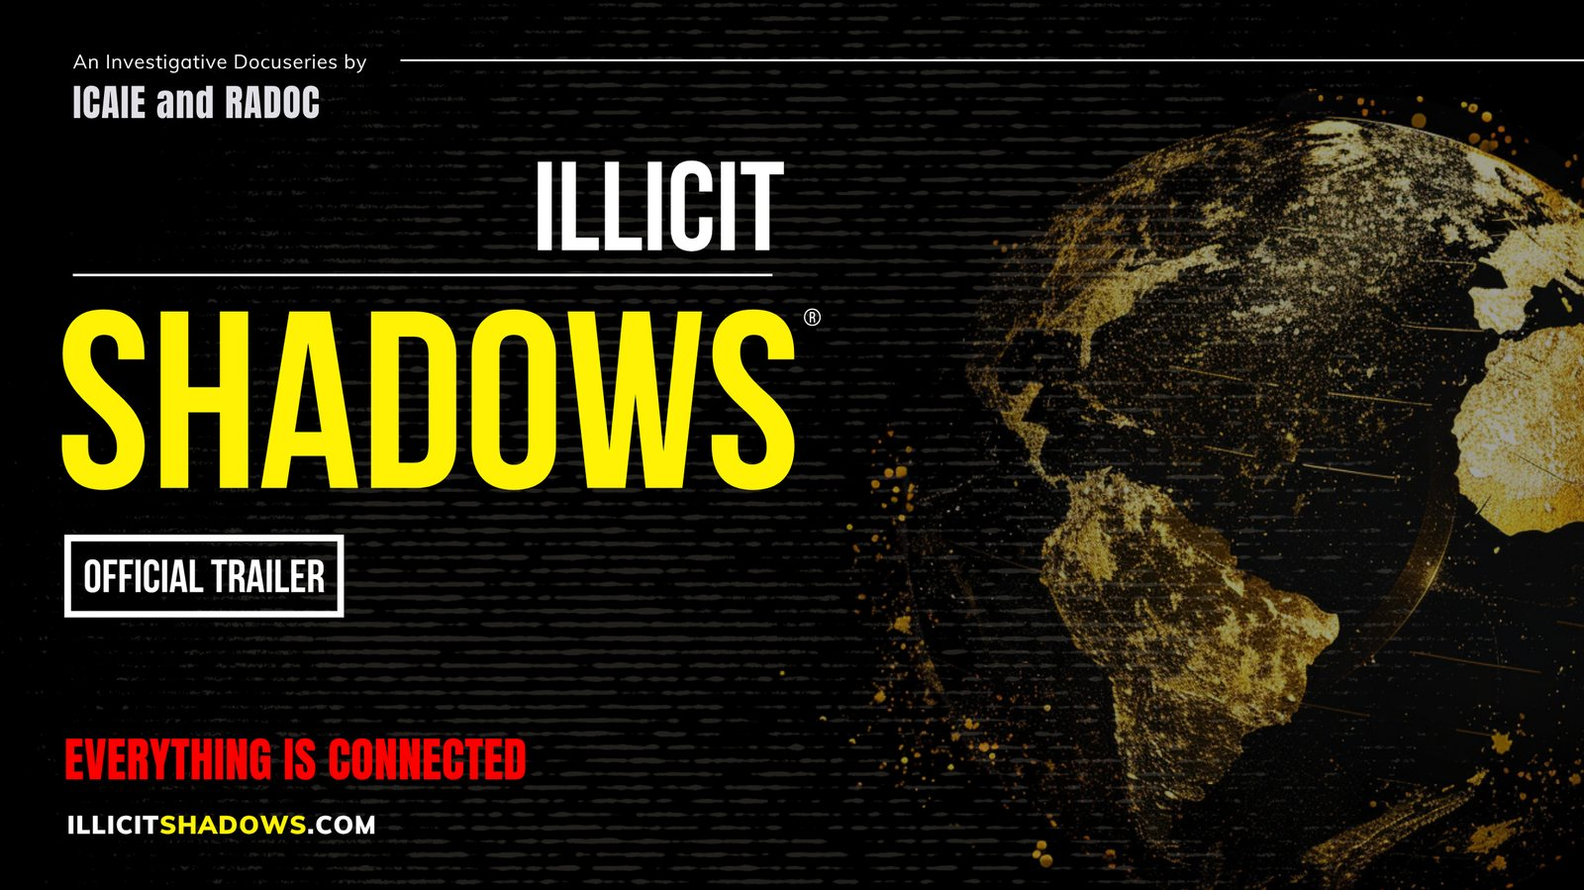
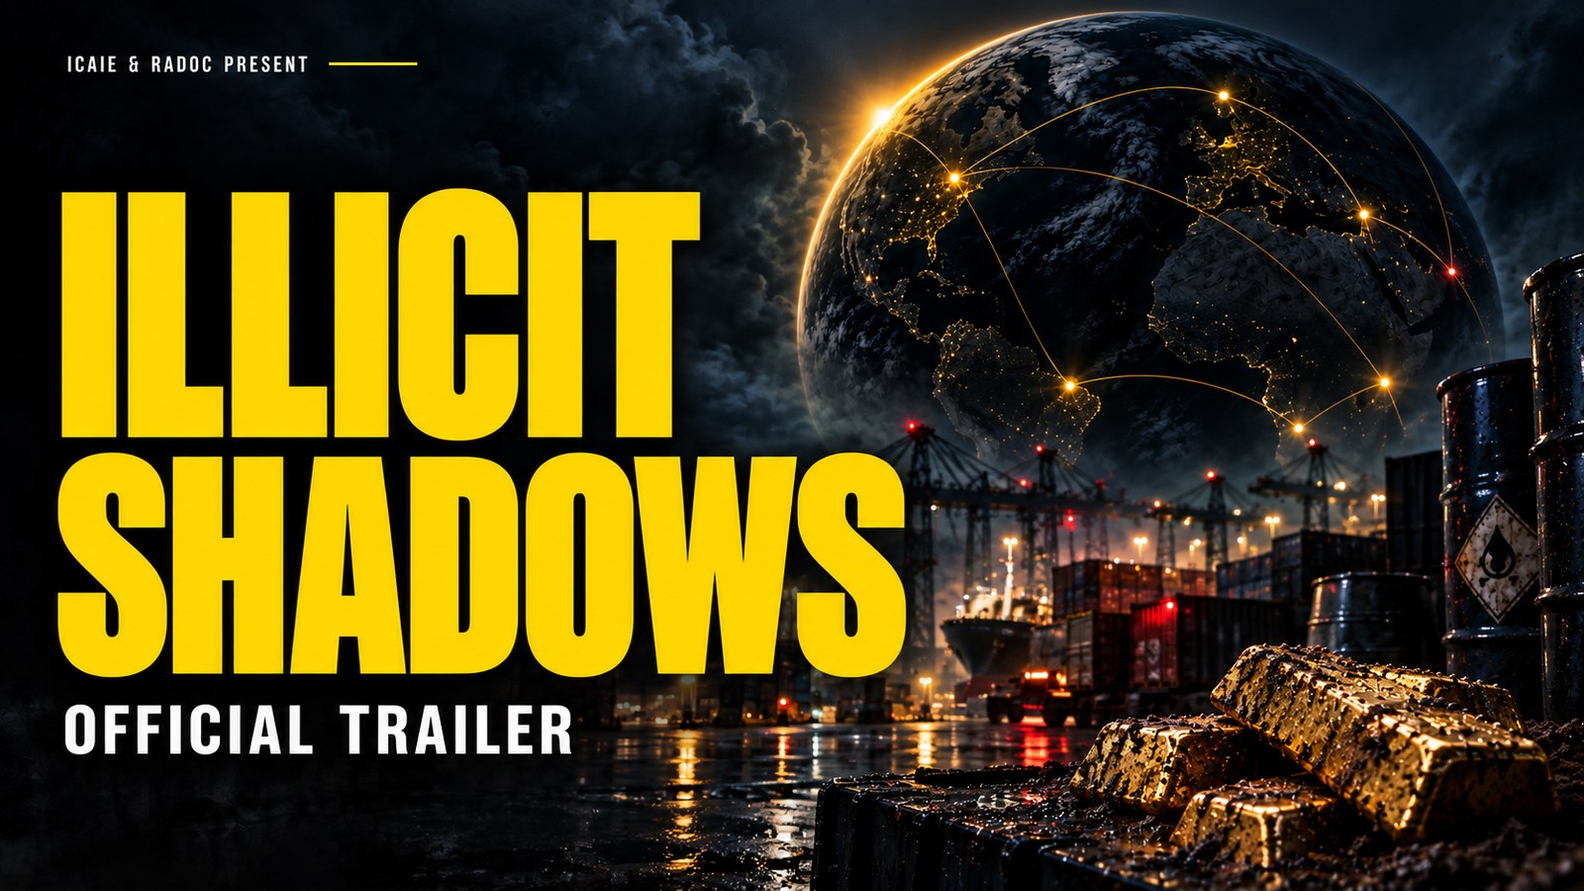
updates homepage, adds videos to home

diff --git a/styles/site.css b/styles/site.css
@@ -165,7 +165,9 @@ footer{border-top:2px solid var(--alert);padding:40px 0 48px;background:var(--pa
    The covers carry their own titles, so the caption under each is for scanning, not labeling. */
 .minigrid{display:grid;grid-template-columns:repeat(3,1fr);gap:12px}
 .minicard{display:block}
-.minicard-img{display:block;aspect-ratio:16/9;overflow:hidden;border:1px solid var(--line)}
+/* position:relative or an absolutely positioned play button escapes to the nearest
+   positioned ancestor and every card's button stacks in one spot. */
+.minicard-img{position:relative;display:block;aspect-ratio:16/9;overflow:hidden;border:1px solid var(--line)}
 .minicard-img img{width:100%;height:100%;object-fit:cover;display:block}
 .minicard:hover .minicard-img{border-color:var(--line-2)}
 .minicard-t{display:block;font-weight:700;font-size:14px;color:var(--text);margin-top:8px}
@@ -215,6 +217,20 @@ footer{border-top:2px solid var(--alert);padding:40px 0 48px;background:var(--pa
 .vembed--live iframe{position:absolute;inset:0;width:100%;height:100%;border:0}
 .ep-player.vembed{border:1px solid var(--line-2)}
 
+/* Home film section: the in-production work leads, the released film sits under it as covers. */
+.lead-film{display:grid;grid-template-columns:1.25fr 1fr;gap:clamp(22px,3vw,40px);align-items:center}
+.lead-film .film-feature{max-width:none;margin:0}
+.lead-title{font-family:var(--disp);text-transform:uppercase;line-height:.95;color:var(--text);font-size:clamp(34px,4.4vw,56px);margin:10px 0 14px}
+.lead-title span{color:var(--signal)}
+.lead-title.sm{font-size:clamp(26px,3vw,36px);margin:0 0 8px}
+.lead-line{color:var(--text-2);font-size:16px;line-height:1.75;margin:0 0 14px;max-width:62ch}
+.lead-note{color:var(--muted);font-size:14.5px;line-height:1.7;margin:0 0 20px;max-width:62ch}
+.released-head{margin-bottom:18px}
+.minigrid.home{margin-bottom:6px}
+.trailer-home{position:relative;display:block;aspect-ratio:16/9;max-width:1000px;margin:0 auto;border:1px solid var(--line-2);overflow:hidden}
+.trailer-home img{width:100%;height:100%;object-fit:cover;display:block}
+.pb.sm{width:38px;height:38px;font-size:13px}
+
 @media(max-width:820px){
   .links{display:none;position:absolute;top:72px;left:0;right:0;flex-direction:column;background:#0a0a0a;border-bottom:2px solid var(--alert);padding:14px 24px;gap:14px}
   .links.open{display:flex}.navtoggle{display:block}
@@ -226,7 +242,10 @@ footer{border-top:2px solid var(--alert);padding:40px 0 48px;background:var(--pa
   .work-body,.trailer-band>div{padding:0 18px 22px}
   .srow{gap:12px}.srow .chips{justify-content:flex-start;max-width:none}
   .sggrid,.minigrid{grid-template-columns:1fr 1fr;gap:10px}
+  .lead-film{grid-template-columns:1fr}
   .sgcard-t{font-size:14px}
+  .cstep{grid-template-columns:26px 1fr;row-gap:2px}
+  .cstep .clag{grid-column:2}
   .foot{grid-template-columns:1fr}
   .head .lbl{white-space:normal}
 }
@@ -248,6 +267,14 @@ footer{border-top:2px solid var(--alert);padding:40px 0 48px;background:var(--pa
 .band-light .eyebrow,.band-white .eyebrow{color:#9c6b06}
 .band-light p,.band-white p{color:#3f3a32}
 .band-light .btn-o,.band-white .btn-o{color:#161310}
+.band-light .lead-title,.band-light .minicard-t{color:#1a1611}
+.band-light .lead-title span{color:#9c6b06}
+.band-light .lead-line{color:#3f3a32}
+.band-light .lead-note{color:#6b655b}
+.band-light .minicard-r,.band-light .segcap{color:#8f887a}
+.band-light .minicard:hover .minicard-t{color:#9c6b06}
+.band-light .seemore a{color:#8a5c05;border-bottom-color:#c2340f}
+.band-light .film-div{border-color:#d8cfbd}
 .band-white .disp .y{color:var(--alert)}
 
 /* pillars (deck design) */
@@ -271,6 +298,8 @@ footer{border-top:2px solid var(--alert);padding:40px 0 48px;background:var(--pa
 .film-feature::after{content:"";position:absolute;inset:0;background:linear-gradient(180deg,rgba(0,0,0,.12),rgba(0,0,0,.4))}
 .film-feature .pb{width:64px;height:64px;font-size:22px}
 .badge{position:absolute;top:12px;left:12px;z-index:4;font-family:var(--mono);font-size:9.5px;letter-spacing:.1em;color:var(--signal);background:rgba(0,0,0,.72);border:1px solid var(--line-2);padding:5px 9px}
+/* Stamps over key art belong bottom left: the covers carry the presenting credit top left
+   and the roundel bottom right. Always pair .badge with .btm on film artwork. */
 .badge.red{color:#fff;background:rgba(225,29,29,.9);border-color:transparent}.badge.btm{top:auto;bottom:12px}
 .feat-syn{max-width:1000px;margin:18px auto 0;color:var(--text-2);font-size:16.5px;line-height:1.7}
 .film-div{height:6px;max-width:1000px;margin:clamp(30px,5vw,50px) auto;background:repeating-linear-gradient(90deg,var(--alert) 0 16px,transparent 16px 23px)}
@@ -290,13 +319,22 @@ a.mbox:hover{transform:translateY(-3px)}.mbox.alert{border-top-color:var(--alert
 .teaser{display:grid;grid-template-columns:1fr 1fr;gap:clamp(28px,5vw,56px);align-items:center}
 .teaser.rev .tcopy{order:2}.tcopy .eyebrow{margin-bottom:10px}.tcopy p{color:var(--text-2);font-size:16px;margin:14px 0 18px;max-width:46ch}
 .cascade{background:var(--panel);border:1px solid var(--line-2);padding:18px}
-.cascade .ch{font-family:var(--mono);font-size:10px;color:var(--dim);letter-spacing:.1em;margin-bottom:12px;display:flex;justify-content:space-between;gap:10px;flex-wrap:wrap}
-.cascade .cq{font-weight:700;font-size:14px;color:var(--text);margin-bottom:10px}
-.cascade .cs{display:flex;gap:12px;padding:8px 0;border-top:1px solid var(--line);font-size:14px;color:var(--text-2)}
-.cascade .cs b{font-family:var(--mono);font-size:10px;color:var(--signal);min-width:40px;font-weight:500}.cascade .cs.red b{color:var(--alert)}
+.cascade .ch{font-family:var(--mono);font-size:10px;color:var(--dim);letter-spacing:.1em;margin-bottom:14px;display:flex;justify-content:space-between;gap:10px;flex-wrap:wrap}
+.ctrigger{font-weight:700;font-size:15px;color:var(--text);margin:0 0 4px;display:flex;gap:10px;align-items:baseline;flex-wrap:wrap}
+.ck{font-family:var(--mono);font-size:9.5px;letter-spacing:.14em;color:var(--ink);background:var(--signal);padding:3px 7px;font-weight:500}
+/* The vertical rule is the chain: every step hangs off the trigger above it. */
+.cchain{list-style:none;margin:0;padding:0 0 0 10px;border-left:2px solid var(--alert)}
+.cstep{display:grid;grid-template-columns:30px 62px 1fr;gap:12px;align-items:baseline;padding:12px 0 12px 12px;border-top:1px solid var(--line);position:relative}
+.cstep:first-child{border-top:0}
+.cstep::before{content:"";position:absolute;left:-16px;top:20px;width:12px;height:2px;background:var(--alert)}
+.cnum{font-family:var(--disp);font-size:14px;color:var(--alert)}
+.clag{font-family:var(--mono);font-size:10px;letter-spacing:.08em;color:var(--signal)}
+.cwhat{display:block;font-size:14.5px;color:var(--text);font-weight:700}
+.cwhy{display:block;font-size:13.5px;color:var(--muted);margin-top:4px;line-height:1.6}
+.cfoot{font-size:12.5px;color:var(--muted);line-height:1.65;margin-top:14px;font-style:italic}
 .chips{display:flex;flex-wrap:wrap;gap:8px;margin-top:6px}
 .chip-h{font-family:var(--mono);font-size:10px;color:var(--text-2);border:1px solid var(--line-2);padding:5px 10px}
-.book3d{width:100%;max-width:320px;margin:0 auto;display:block;filter:drop-shadow(0 22px 44px rgba(0,0,0,.6))}
+.book3d{width:100%;max-width:560px;margin:0 auto;display:block;filter:drop-shadow(0 28px 56px rgba(0,0,0,.65))}
 .dmuseum{border:1px solid var(--line-2);overflow:hidden;line-height:0}.dmuseum svg{display:block;width:100%;height:auto}
 .netglobe{position:relative;border:1px solid var(--line-2);overflow:hidden;line-height:0;margin-bottom:clamp(28px,4vw,44px)}
 .netglobe img{width:100%;display:block;max-height:520px;object-fit:cover}
@@ -360,7 +398,7 @@ a.mbox:hover{transform:translateY(-3px)}.mbox.alert{border-top-color:var(--alert
 .shopcard{display:flex;align-items:center;gap:20px;background:var(--panel);border:1px solid var(--line);border-left:3px solid var(--signal);padding:20px 24px;margin-top:16px}
 .shopcard img{width:70px;height:52px;object-fit:cover;flex:0 0 auto;border:1px solid var(--line-2)}
 .shopcard .st{font-family:var(--disp);font-size:20px;color:var(--text);text-transform:uppercase;line-height:1}.shopcard .sd{color:var(--muted);font-size:13px;margin-top:3px}.shopcard .btn{margin-left:auto;white-space:nowrap}
-.umbra{display:grid;grid-template-columns:1fr 1.2fr;gap:clamp(24px,4vw,44px);align-items:center}
+.umbra{display:grid;grid-template-columns:1fr 1fr;gap:clamp(24px,4vw,44px);align-items:center}
 .umbra h3{font-family:var(--disp);text-transform:uppercase;color:var(--text);font-size:clamp(26px,4vw,42px);line-height:.96;margin:8px 0 14px}.umbra h3 span{color:var(--signal)}
 .umbra p{color:var(--text-2);font-size:16px;margin-bottom:12px;max-width:60ch}.tag{font-family:var(--mono);font-size:9.5px;letter-spacing:.08em;color:var(--signal)}
 .strip{display:flex;flex-wrap:wrap;gap:18px;align-items:center;justify-content:space-between;background:var(--panel);border:1px solid var(--line-2);padding:22px clamp(18px,3vw,28px)}

diff --git a/app/page.js b/app/page.js
@@ -4,6 +4,7 @@ import films from '../data/films.json';
 import news from '../data/newsroom.json';
 import { Pic, SectionHead, Break, Prov, Hero, Signup, Donor, DigitalMuseum } from '../components/Blocks';
 import { Icon } from '../components/Icons';
+import { Cascade } from '../components/Cascade';
 
 // Select by status, not by slug or position: retitles and reordering should not break the page.
 const released = films.find(f => f.status === 'streaming');
@@ -35,14 +36,47 @@ export default function Home() {
       </section>
 
       <section className="wrap reveal band-light" id="film">
-        <SectionHead label="Film" meta="NOW STREAMING" />
-        <Link className="film-feature" href={`/film/${released.slug}`}><Pic base={released.image} alt={`${released.title}: ${released.subtitle}`} /><span className="badge">{released.title.toUpperCase()} &middot; NOW STREAMING</span><span className="pb">&#9654;</span></Link>
-        <p className="feat-syn">{released.synopsis}</p>
-        <div className="film-div" />
-        <div className="film-row">
-          <a className="mbox" href={site.social.youtube}><span className="ic">{Icon.play}</span><div className="eb">Official Trailer</div><div className="ti">Watch the <span>trailer</span></div><div className="ds">A first look at the work.</div><div className="cta">&#9654; WATCH ON YOUTUBE</div></a>
-          <div className="mbox alert"><span className="ic">{Icon.clapper}</span><div className="eb">In production</div><div className="ti">Illicit <span>Gold</span></div><div className="ds">{inProduction.subtitle}.</div><div className="cta" style={{ color: 'var(--alert)' }}>IN PRODUCTION</div></div>
+        <SectionHead label="Film" meta="INVESTIGATIONS" />
+
+        {/* The work in production leads. It is the reason to come back, and the released film is
+            one click away below it. */}
+        <div className="lead-film">
+          <Link className="film-feature" href={`/film/${inProduction.slug}`}>
+            <Pic base={inProduction.image} alt={`${inProduction.title}: ${inProduction.subtitle}`} priority />
+            <span className="badge red btm">IN PRODUCTION</span>
+          </Link>
+          <div className="lead-copy">
+            <p className="eyebrow">In production &middot; {inProduction.places.join(' · ')}</p>
+            <h3 className="lead-title">Illicit <span>Gold</span></h3>
+            <p className="lead-line">{inProduction.line}</p>
+            <p className="lead-note">Filming across three countries with the International Coalition Against Illicit Economies. Sam Rad on camera, David M. Luna as the institutional voice.</p>
+            <Link className="btn btn-y" href={`/film/${inProduction.slug}`}>About the investigation</Link>
+          </div>
         </div>
+
+        <div className="film-div" />
+
+        <div className="released-head">
+          <h3 className="lead-title sm">Chemical <span>Cartels</span></h3>
+          <p className="lead-line">{released.line}</p>
+        </div>
+        <div className="minigrid home">
+          {released.segments.filter(x => x.image).slice(0, 3).map(x => (
+            <Link className="minicard" href={`/film/${released.slug}`} key={x.n}>
+              <span className="minicard-img"><Pic base={x.image} alt={`${x.title} title card`} /><span className="pb sm">&#9654;</span></span>
+              <span className="minicard-t">{x.title}</span>
+              {x.runtime && <span className="minicard-r">{x.runtime}</span>}
+            </Link>
+          ))}
+        </div>
+        <p className="seemore"><Link href={`/film/${released.slug}`}>All {released.segments.length} short films &rarr;</Link></p>
+
+        <div className="film-div" />
+
+        <Link className="trailer-home" href="/film#trailer">
+          <Pic base="/images/film-trailer" alt="Illicit Shadows official trailer" />
+          <span className="pb">&#9654;</span>
+        </Link>
       </section>
 
       <Break base="/images/break-evidence-1" />
@@ -57,14 +91,7 @@ export default function Home() {
             <p>Helix.AI is the Predictive Convergence System at the core of MISTIC: modeling how criminal, political, and economic networks reorganize after disruption, and turning fragmented intelligence into systemic foresight.</p>
             <Link className="btn btn-o" href="/intelligence">Explore intelligence &rarr;</Link>
           </div>
-          <div className="cascade">
-            <div className="ch"><span>CASCADE PREDICTION</span><Prov status="illustrative">illustrative model</Prov></div>
-            <div className="cq">IF contraband is interdicted in Rotterdam&hellip;</div>
-            <div className="cs"><b>+11d</b><span>Shift to Antwerp and Hamburg</span></div>
-            <div className="cs red"><b>&rarr;</b><span>Shell registrations &middot; Lisbon, Caribbean</span></div>
-            <div className="cs red"><b>&rarr;</b><span>Real-estate cash &middot; London, Miami, Dubai</span></div>
-            <div className="cs red"><b>&rarr;</b><span>Political funding anomalies &middot; EU, N. America</span></div>
-          </div>
+          <Cascade compact />
         </div>
       </section>
 

diff --git a/components/Cascade.jsx b/components/Cascade.jsx
@@ -1,0 +1,47 @@
+import { Prov } from './Blocks';
+
+/**
+ * Cascade. The point is the chain, not the list: an interdiction moves the route, the route
+ * moves the money, the money surfaces as property and then as politics. Each step states what
+ * moves and why it follows, so a reader can see the mechanism rather than take it on faith.
+ *
+ * Always carries the illustrative chip. This is a modeled scenario, not a reported event, and
+ * losing that label would turn a demonstration into an allegation about named cities.
+ */
+const STEPS = [
+  { lag: 'Day 0', what: 'Route shifts to Antwerp and Hamburg',
+    why: 'The shipment still has to land, so volume moves to the next-nearest port with capacity.' },
+  { lag: '+11d', what: 'Shell registrations spike in Lisbon, the Caribbean, offshore',
+    why: 'New corridors need new invoicing entities before the next load moves.' },
+  { lag: '+3mo', what: 'Real-estate cash purchases rise in London, Miami, Dubai',
+    why: 'Proceeds have to leave the trade and enter something that holds value.' },
+  { lag: '+12mo', what: 'Political funding anomalies appear in the EU and North America',
+    why: 'Protection of the new route is cheaper than losing it again.' },
+];
+
+export function Cascade({ compact = false }) {
+  return (
+    <div className="cascade">
+      <div className="ch">
+        <span>CASCADE PREDICTION{compact ? '' : ' · WORKED EXAMPLE'}</span>
+        <Prov status="illustrative">illustrative model</Prov>
+      </div>
+      <p className="ctrigger"><span className="ck">TRIGGER</span>Contraband is interdicted at Rotterdam.</p>
+      <ol className="cchain">
+        {STEPS.map((s, i) => (
+          <li className="cstep" key={s.what}>
+            <span className="cnum">{String(i + 1).padStart(2, '0')}</span>
+            <span className="clag">{s.lag}</span>
+            <span className="cbody">
+              <span className="cwhat">{s.what}</span>
+              {!compact && <span className="cwhy">{s.why}</span>}
+            </span>
+          </li>
+        ))}
+      </ol>
+      <p className="cfoot">Each step is what the model expects the network to do next, not a prediction
+        of a dated event. The chain is the claim: disruption does not remove the trade, it moves it,
+        and the movement is visible in different data each time.</p>
+    </div>
+  );
+}

diff --git a/app/intelligence/page.js b/app/intelligence/page.js
@@ -1,6 +1,7 @@
 import Link from 'next/link';
 import site from '../../data/site.json';
 import { Pic, SectionHead, Break, Prov, Donor } from '../../components/Blocks';
+import { Cascade } from '../../components/Cascade';
 export const metadata = { title: 'Intelligence · MISTIC and Project Helix' };
 
 export default function Intelligence() {
@@ -29,15 +30,7 @@ export default function Intelligence() {
           <div className="layer"><div className="ln">03 · CAUSAL ENGINE</div><div className="ld">Helix.AI: structural causal modeling with adaptive feedback.</div></div>
           <div className="layer"><div className="ln">04 · REINFORCEMENT</div><div className="ld">Optimization across cascading adaptation paths.</div></div>
         </div>
-        <div className="cascade" style={{ marginTop: 20 }}>
-          <div className="ch"><span>CASCADE PREDICTION · WORKED EXAMPLE</span><Prov status="illustrative">illustrative model</Prov></div>
-          <div className="cq">IF contraband is interdicted in Rotterdam&hellip;</div>
-          <div className="cs"><b>+11d</b><span>Shift to Antwerp and Hamburg; trace-back of illicit chain flows</span></div>
-          <div className="cs red"><b>&rarr;</b><span>Spike in shell registrations &middot; Lisbon, Caribbean, offshores</span></div>
-          <div className="cs red"><b>&rarr;</b><span>Real-estate cash spikes &middot; London, Miami, Dubai, Paris</span></div>
-          <div className="cs red"><b>&rarr;</b><span>Political funding anomalies &middot; EU, North America, South Asia</span></div>
-          <p style={{ fontStyle: 'italic', color: 'var(--muted)', fontSize: 12, marginTop: 12 }}>Systemic foresight, not discrete event forecasting. The sequence above is a modeled scenario, not a reported event.</p>
-        </div>
+        <Cascade />
       </section>
       <Break base="/images/break-evidence-1" />
       <section className="wrap reveal"><Donor eyebrow="Enterprise" title={<>Advisory, briefings, and <span>Helix access</span></>} copy="Governments, international organizations, and industry on illicit-economy exposure. Enterprise B2G and B2B intelligence platform access." cta="Request a briefing" href={`mailto:${site.contact}`} mail={site.contact} /></section>

diff --git a/app/film/page.js b/app/film/page.js
@@ -72,15 +72,15 @@ export default function Film() {
       </section>
       <Break base="/images/break-evidence-3" />
       <section className="wrap reveal" id="trailer">
-        <SectionHead label="Trailer" meta="2024 CUT" dim />
-        {/* 2024 cut. Predates the gold work and carries the old series branding on screen. Kept
-            reachable, marked as an archive cut, and deliberately not given a hero slot. */}
+        <SectionHead label="Trailer" meta="OFFICIAL" dim />
+        {/* New key art, 14 Sep. The cut itself still predates the gold shoot, so the copy says so
+            rather than implying it represents the current work. */}
         <div className="trailer-band">
           <a className="work-img trailer-img" href={site.social.youtube}><Pic base="/images/film-trailer" alt="Illicit Shadows trailer" /><span className="pb">&#9654;</span></a>
           <div>
             <h3 className="work-title">Trailer</h3>
-            <p className="work-line">The 2024 cut, made before the gold work began. Kept for reference until a new cut exists.</p>
-            <Prov status="illustrative">Archive cut</Prov>
+            <p className="work-line">A first look at the work. Cut before the gold shoot, so it covers the fentanyl investigation.</p>
+            <Prov status="illustrative">2024 cut</Prov>
           </div>
         </div>
       </section>

diff --git a/app/film/[slug]/page.js b/app/film/[slug]/page.js
@@ -97,7 +97,7 @@ export default async function Investigation({ params }) {
       </section>}
       {other && <><Break base="/images/break-evidence-2" /><section className="wrap reveal">
         <SectionHead label="Also from Illicit Shadows" meta={other.places.join(' · ').toUpperCase()} />
-        <Link className="film-feature" href={`/film/${other.slug}`}><Pic base={other.image} alt={other.title} /><span className="badge red">{other.title.toUpperCase()} &middot; {other.status === 'streaming' ? 'RELEASED' : 'IN PRODUCTION'}</span></Link>
+        <Link className="film-feature" href={`/film/${other.slug}`}><Pic base={other.image} alt={other.title} /><span className="badge red btm">{other.title.toUpperCase()} &middot; {other.status === 'streaming' ? 'RELEASED' : 'IN PRODUCTION'}</span></Link>
       </section></>}
     </>
   );

diff --git a/HANDOFF.md b/HANDOFF.md
@@ -81,8 +81,11 @@ The social handle lives once, in `site.json` as `social.handle`, because it is p
 credits and may change. Never hardcode it in a page. It is `@illicit_shadows` (YouTube and X, 14 Sep);
 Instagram is still `illicitshadowsdoc`.
 
-Status chips sit **bottom left** on film art (`.work-status`, and `.badge.btm` on the detail page);
-short-film numbers sit **top right** (`.sgcard-n`). Both were moved after they landed on type baked
+**Every stamp over key art sits bottom left**: `.work-status` on film cards, and `.badge` **always
+paired with `.btm`** on `.film-feature` and `.ep-player` (home, up-next, and the detail hero). Short
+numbers sit **top right** (`.sgcard-n`). Top left is the presenting credit and bottom right is the
+roundel, so those corners are never free. A `.badge` without `.btm` lands on "ICAIE & RADOC PRESENT";
+that shipped on the home page and up-next block before being caught 14 Sep. Both were moved after they landed on type baked
 into the covers, the short number first showing the collision at 390px. Check new covers at 390px.
 
 `/film/[slug]` renders a short as a **card when it has an `image` and a text row when it does not**,
@@ -94,6 +97,13 @@ full set. Owner picked this over a scrolling strip of all eleven, to keep the in
 is ever revisited: a grid item defaults to `min-width:auto`, so the scroller stretches its card
 instead of scrolling unless `min-width:0` is set, and that is invisible in a screenshot. Compare
 `scrollWidth` against `clientWidth` to check.
+
+## Home film section (14 Sep)
+Illicit Gold leads with the cover, a description, and what is being filmed; Chemical Cartels sits
+under it as three short covers with a link to all eleven; the trailer closes the section. The section
+sits on `.band-light`, the cream band, which **inverts every default color**. New elements need an
+explicit override there or white display type lands on cream: see the `.band-light .lead-title`
+block in `site.css`. Check anything added to this section against the cream background.
 
 ## Video
 Films play through a **facade YouTube embed** (`components/VideoEmbed.jsx`): the cover art is the
@@ -107,6 +117,11 @@ no `VideoObject` markup is emitted. Never add an id for a film that must not be 
 Public internet availability before a qualifying theatrical release is what costs festival and awards
 eligibility, so **Illicit Gold must have no id and no embed** until that question is settled. Screeners
 go through password-protected Vimeo or signed Mux URLs, off this site.
+
+`components/Cascade.jsx` is the Helix worked example, shared by home (`compact`) and `/intelligence`,
+so the two cannot drift. It reads as a chain rather than a list: a trigger, then numbered steps each
+carrying a lag and **why that step follows from the one above**. Always keeps the illustrative chip.
+It names real cities, so without that label a demonstration reads as an allegation.
 
 `components/Schema.jsx` emits `VideoObject` (and `Movie` for a film), with `duration` derived from
 the runtime string. Type is never `TVEpisode` or `TVSeries`.

diff --git a/ROADMAP.md b/ROADMAP.md
@@ -108,6 +108,11 @@ contact form.
 - [x] **14 Sep** `preview.py` fixed: CSS glob broken since the Next 16 upgrade (previews were
       rendering unstyled), and `--lite` now keeps the fonts as woff2 instead of dropping them.
 - [x] **14 Sep** `scripts/mock.py`: design options render as one HTML page, per owner instruction.
+- [x] **14 Sep** Home rebuilt around Illicit Gold, with three Chemical Cartels covers, the new
+      trailer art, and cream-band contrast fixed for the new elements.
+- [x] **14 Sep** Helix cascade rebuilt as a causal chain with lags and reasons, shared by home and
+      `/intelligence`. Book cover on `/books` enlarged.
+- [x] **14 Sep** All stamps moved clear of the key art: `.badge` now always pairs with `.btm`.
 - [x] **14 Sep** All eleven shorts wired to real YouTube ids; the film player embeds the playlist
       in order. Handle moved to `@illicit_shadows` on YouTube and X.
 - [x] **14 Sep** Video: facade YouTube embeds (no third-party request until click), VideoObject and
